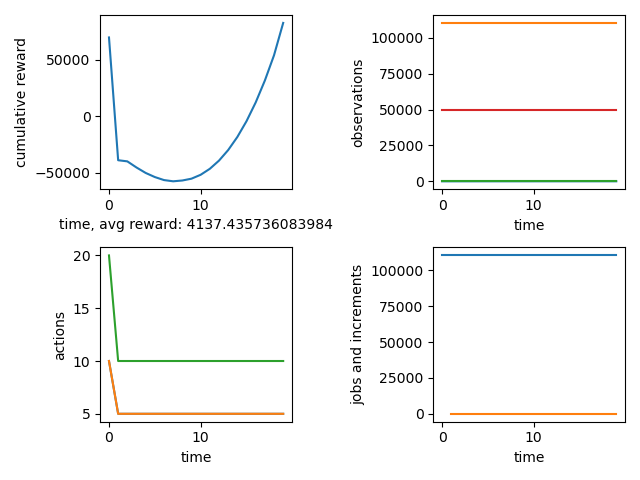
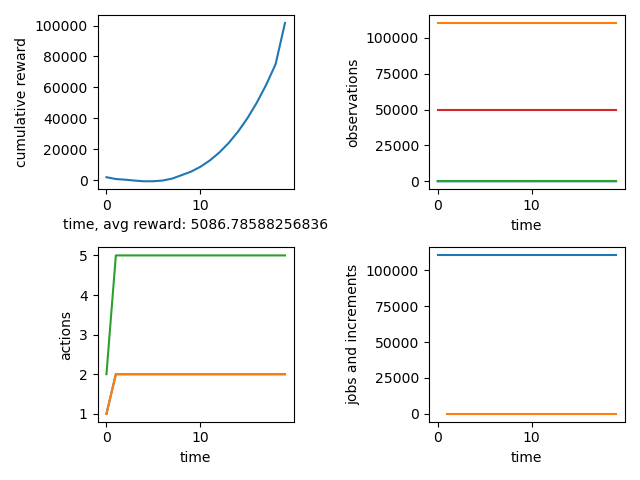
Fixed the compiled object's cell's map/address initialization issue: before resetting or setting any values in the compiled object, all reward components cells have to be evaluated first in order to get initialized, and after setting the action of deployment increments, the reward component cells ha
Now the env.py's output rewards components are (almost) exactly the same as Excel's workbook's total capex opex revenue emissions: In 'Pathways to Net Zero - Simplified.xlsx' - 'Gale' spreadsheet, simply apply an increments of [1.0 1.0 2.0] to offshore wind, blue hydrogen, and green hydrogen on top of 2030 values and set the new values as 2031 values, then apply constant increments [2.0 2.0 5.0] (as in the test_reference_environment_direct_deployment.py) for all following years, then in the 'Outputs' and 'CCUS', the total capex opex revenue and emissions from 2031 to 2050 are exactly the same as env.py's outputs. Moreover, even in the original 'Pathways to Net Zero.xlsx', when doing the same operation, the total opex revenue and emissions from 2031 to 2050 are still exactly the same as env.py's outputs, whereas the total capex is different because in the original 'Pathways to Net Zero.xlsx', offshore wind's capex depends on some numbers that are weighted sum of future values, which is not removed and replaced by current year's values only in the 'Pathways to Net Zero - Simplified.xlsx'.

diff --git a/environment/reference_environment_direct_deployment/env.py b/environment/reference_environment_direct_deployment/env.py
@@ -139,6 +139,7 @@ def apply_action(action, state):
     BlueHydrogen = np.clip(BlueHydrogen + action[1], BlueHydrogen, 270)
     GreenHydrogen = param.Pathways2Net0.evaluate('GALE!Y'+str(param.Pathways2Net0RowInds[state.step_count]-1))
     GreenHydrogen = np.clip(GreenHydrogen + action[2], GreenHydrogen, 252.797394)
+    
     # set these newly actioned deployment numbers into the corresponding cells in 'Gale' spreadsheet of the compiled object:
     # Note: the compiled object is essentially graphs with vertices/nodes and edges for cells and their relations (formulae)
     # if a cell contains raw values/numbers, its cell map/address will already exist; but if a cell originally contains 
@@ -149,6 +150,27 @@ def apply_action(action, state):
     param.Pathways2Net0.evaluate('GALE!P'+str(param.Pathways2Net0RowInds[state.step_count]))
     param.Pathways2Net0.evaluate('GALE!X'+str(param.Pathways2Net0RowInds[state.step_count]))
     param.Pathways2Net0.evaluate('GALE!Y'+str(param.Pathways2Net0RowInds[state.step_count]))
+    # also, before resetting the current year's deployment values, the capex opex revenue and emissions of the current year
+    # have to be evaluated to initialize the cell's map/address:
+    capex_all = np.float32([param.Pathways2Net0.evaluate('Outputs!'+param.Pathways2Net0ColumnInds[state.step_count]+'24'), 
+                          param.Pathways2Net0.evaluate('Outputs!'+param.Pathways2Net0ColumnInds[state.step_count]+'28'),
+                          param.Pathways2Net0.evaluate('Outputs!'+param.Pathways2Net0ColumnInds[state.step_count]+'32'),
+                          param.Pathways2Net0.evaluate('Outputs!'+param.Pathways2Net0ColumnInds[state.step_count]+'36'),
+                          param.Pathways2Net0.evaluate('Outputs!'+param.Pathways2Net0ColumnInds[state.step_count]+'41')])
+    opex_all = np.float32([param.Pathways2Net0.evaluate('Outputs!'+param.Pathways2Net0ColumnInds[state.step_count]+'25'), 
+                          param.Pathways2Net0.evaluate('Outputs!'+param.Pathways2Net0ColumnInds[state.step_count]+'29'),
+                          param.Pathways2Net0.evaluate('Outputs!'+param.Pathways2Net0ColumnInds[state.step_count]+'33'),
+                          param.Pathways2Net0.evaluate('Outputs!'+param.Pathways2Net0ColumnInds[state.step_count]+'37'),
+                          param.Pathways2Net0.evaluate('Outputs!'+param.Pathways2Net0ColumnInds[state.step_count]+'42')])
+    revenue_all = np.float32([param.Pathways2Net0.evaluate('Outputs!'+param.Pathways2Net0ColumnInds[state.step_count]+'26'), 
+                          param.Pathways2Net0.evaluate('Outputs!'+param.Pathways2Net0ColumnInds[state.step_count]+'30'),
+                          param.Pathways2Net0.evaluate('Outputs!'+param.Pathways2Net0ColumnInds[state.step_count]+'34'),
+                          param.Pathways2Net0.evaluate('Outputs!'+param.Pathways2Net0ColumnInds[state.step_count]+'38'),
+                          param.Pathways2Net0.evaluate('Outputs!'+param.Pathways2Net0ColumnInds[state.step_count]+'43')])
+    emissions = np.float32(param.Pathways2Net0.evaluate('CCUS!'+param.Pathways2Net0ColumnInds[state.step_count]+'68'))
+    # again, before resetting the following 3 values, the above all reward components have to be evaluated first,
+    # and after the following resetting, the reward components need to be evaluated again to calculate based on the newly
+    # reset values:
     param.Pathways2Net0.set_value('GALE!P'+str(param.Pathways2Net0RowInds[state.step_count]), OffshoreWind)
     param.Pathways2Net0.set_value('GALE!X'+str(param.Pathways2Net0RowInds[state.step_count]), BlueHydrogen)
     param.Pathways2Net0.set_value('GALE!Y'+str(param.Pathways2Net0RowInds[state.step_count]), GreenHydrogen)

diff --git a/environment/test_reference_environment_direct_deployment.py b/environment/test_reference_environment_direct_deployment.py
@@ -25,7 +25,7 @@ env.reset()
 assert len(env.observation_space.sample()) == len(env.state.to_observation())
 done = False
 
-action = [10.0, 10.0, 20.0] # [increment in offshore wind capacity GW, increment in blue hydrogen energy TWh, increment in green hydrogen energy TWh]
+action = [1.0, 1.0, 2.0] # [increment in offshore wind capacity GW, increment in blue hydrogen energy TWh, increment in green hydrogen energy TWh]
 while not done:
     # Specify the action. Check the effect of any fixed policy by specifying the action here:
     observation, reward, done, _ = env.step(action)
@@ -35,11 +35,11 @@ while not done:
     logger.debug(f"reward: {reward}")
     logger.debug(f"done: {done}")
     print()
-    action = [5.0, 5.0, 10.0] # env.action_space.sample()
+    action = [2.0, 2.0, 5.0] # env.action_space.sample()
 
 # logger.debug(f"env.param.IEV_RewardSensitivities: {env.param.IEV_RewardSensitivities}")
 
-# rewards_all = np.array(env.state.weightedRewardComponents_all)
+rewards_all = np.array(env.state.weightedRewardComponents_all)
 # IEV_Rewards_1YearShifting = np.ones(np.shape(rewards_all))
 # # IEV_Rewards_capexDelta = np.ones(np.shape(rewards_all))
 # scenario = 1 # 0 for Breeze, 1 for Gale, 2 for Storm; should be adjusted according to the 'action' above in line 33/35 and 46
